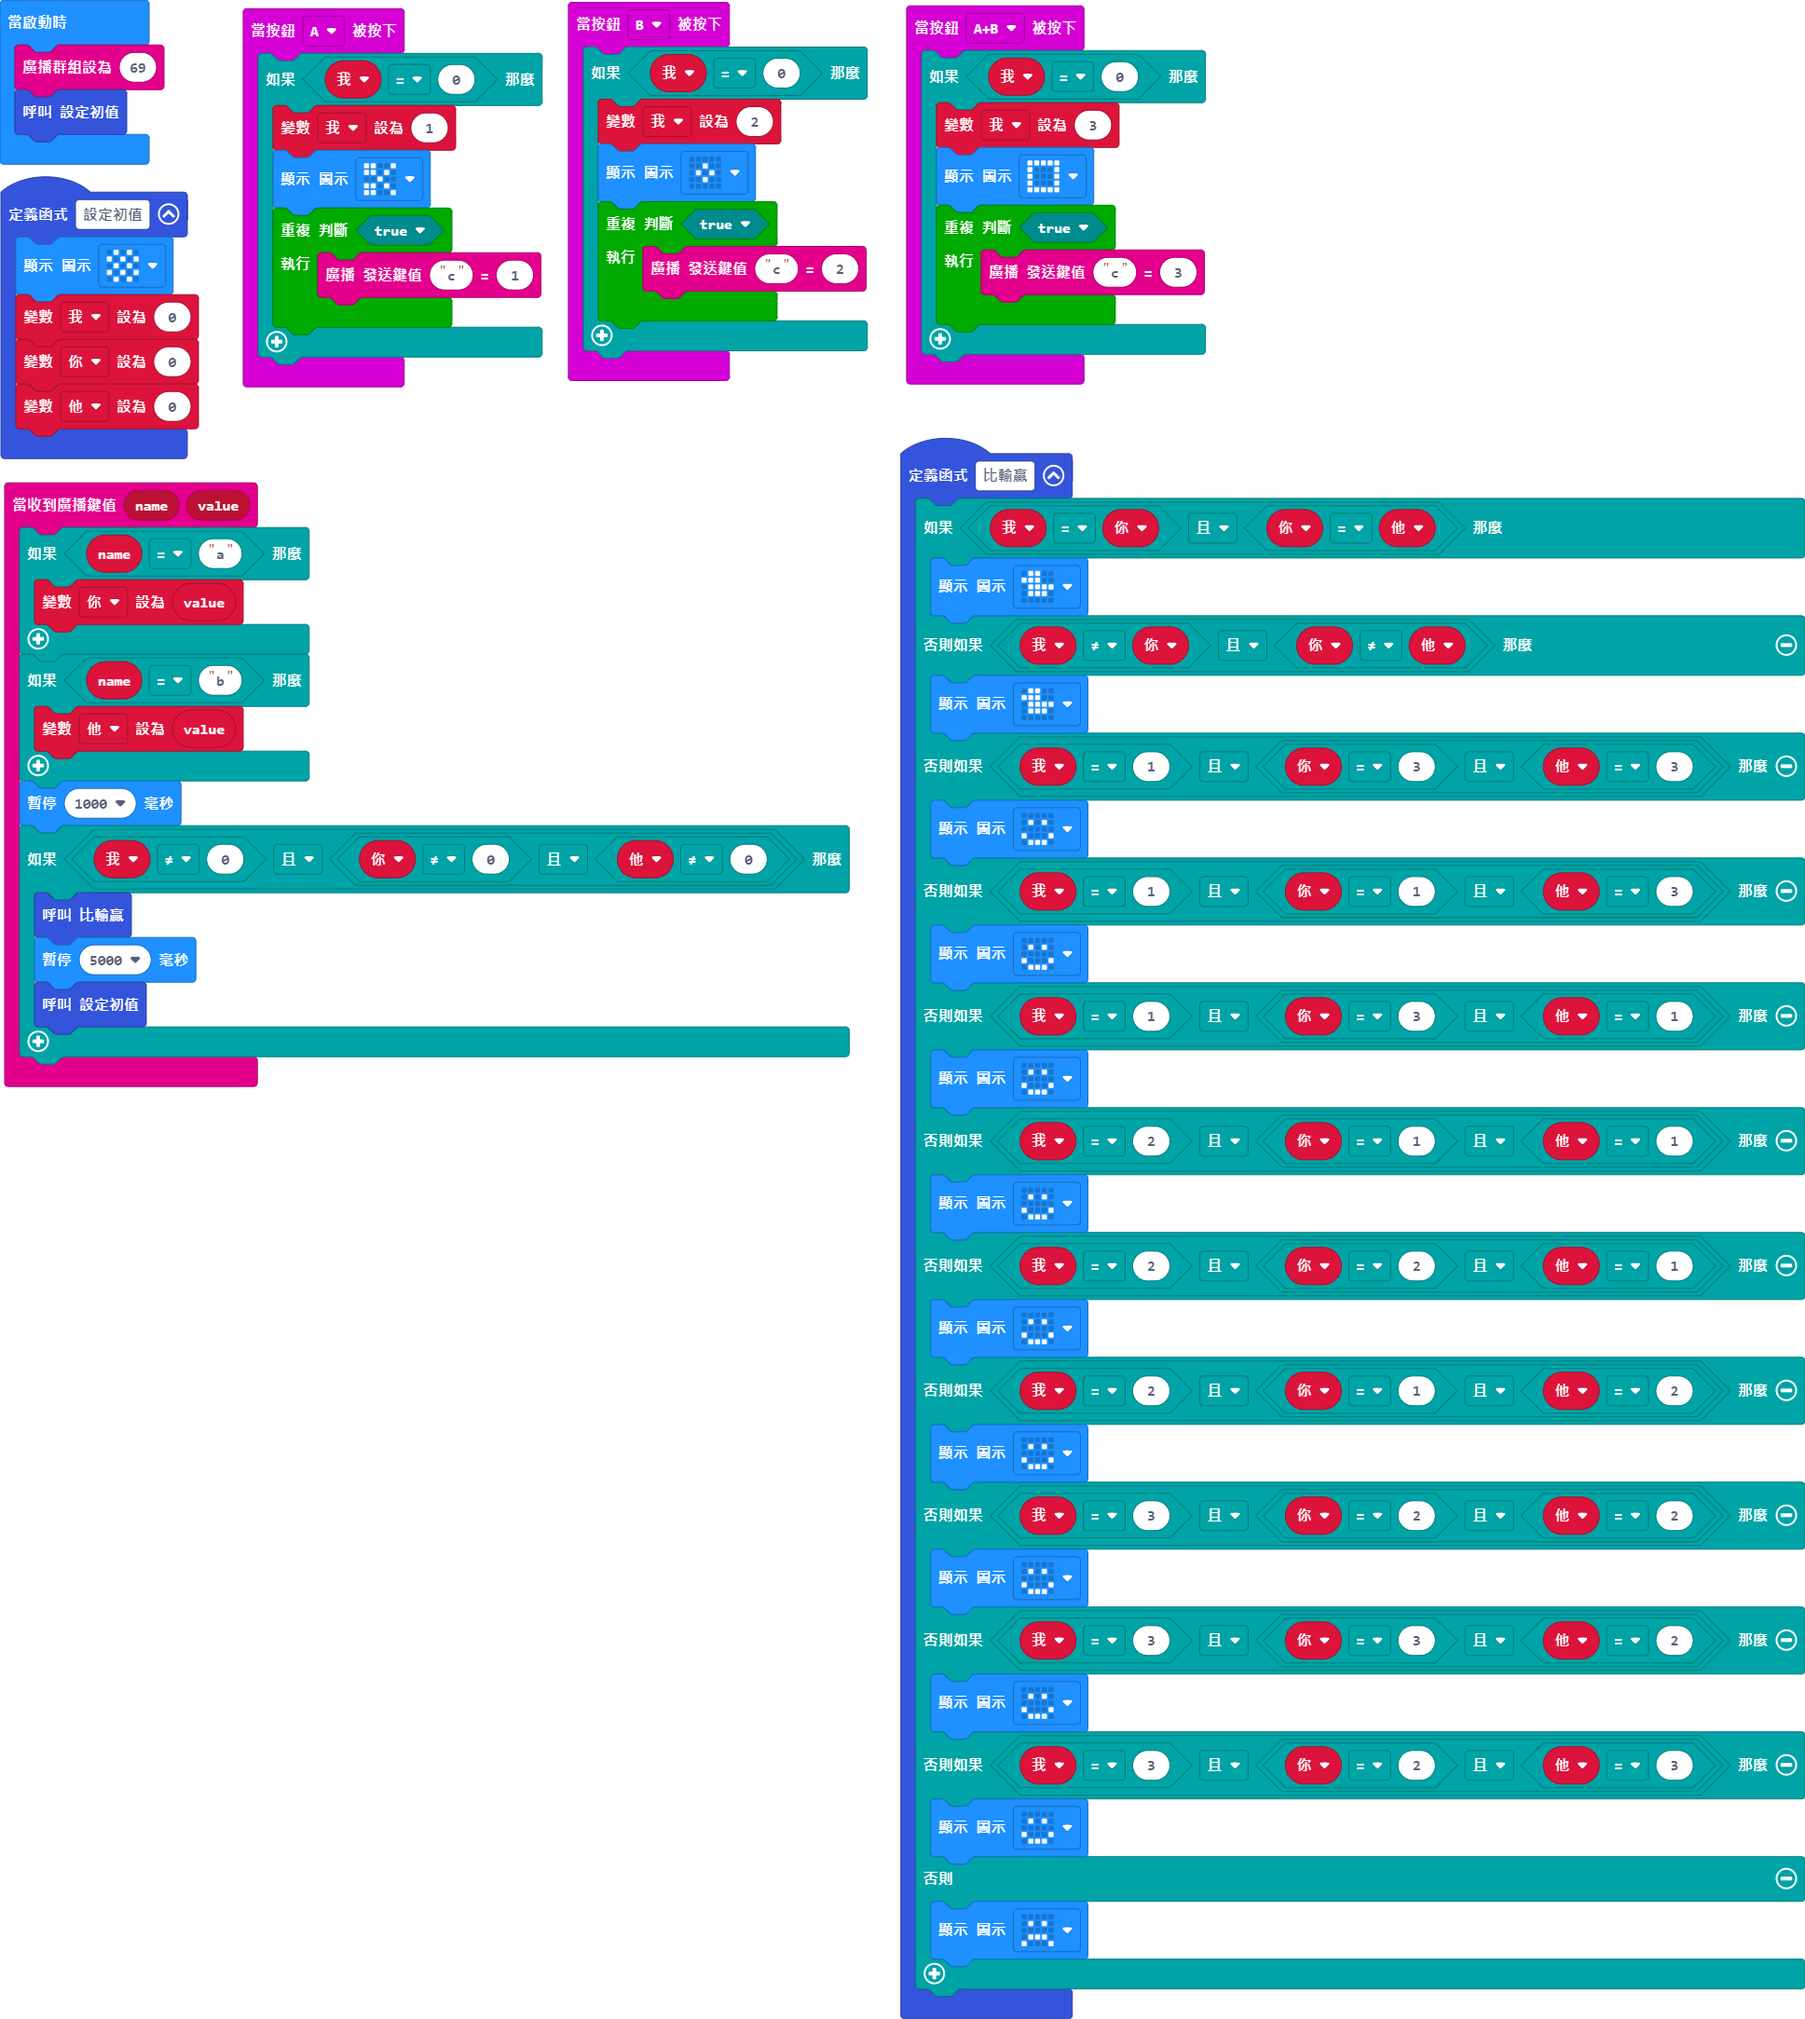
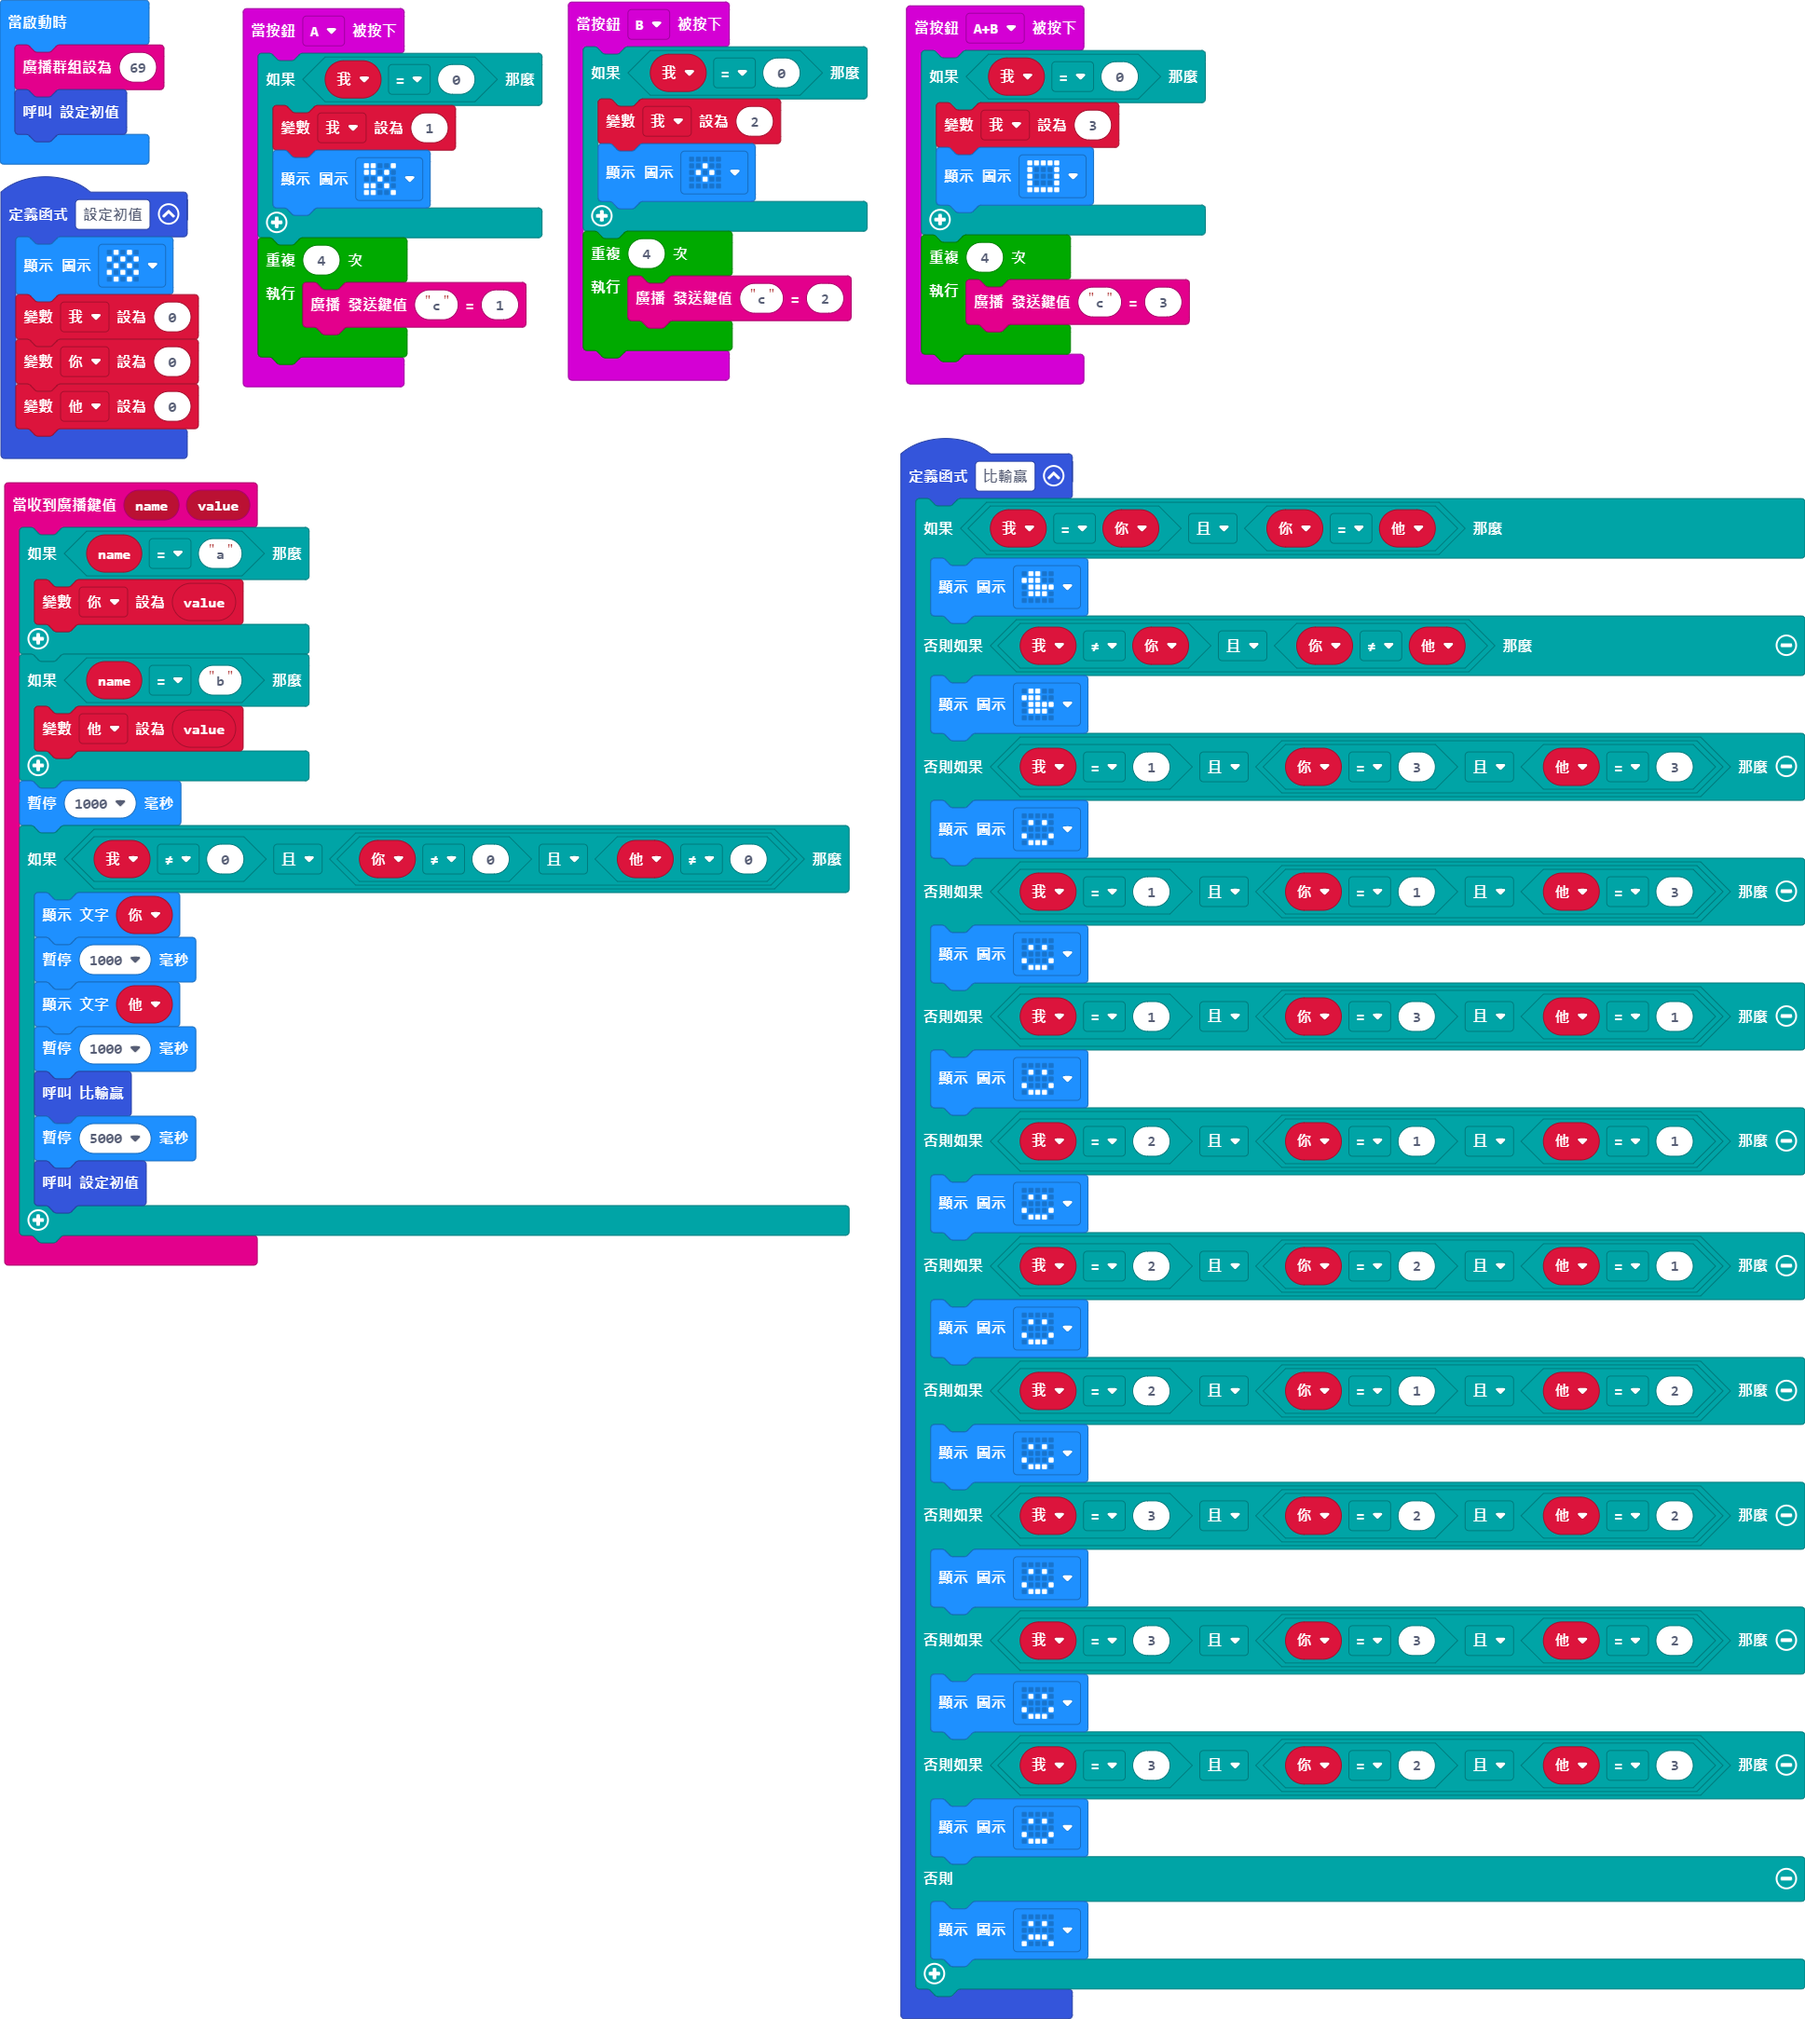
更新 main.blocks, main.ts

diff --git a/main.ts b/main.ts
@@ -2,9 +2,9 @@ input.onButtonPressed(Button.A, function () {
     if (我 == 0) {
         我 = 1
         basic.showIcon(IconNames.Scissors)
-        while (true) {
-            radio.sendValue("c", 1)
-        }
+    }
+    for (let index = 0; index < 4; index++) {
+        radio.sendValue("c", 1)
     }
 })
 function 設定初值 () {
@@ -44,18 +44,18 @@ input.onButtonPressed(Button.AB, function () {
     if (我 == 0) {
         我 = 3
         basic.showIcon(IconNames.Square)
-        while (true) {
-            radio.sendValue("c", 3)
-        }
+    }
+    for (let index = 0; index < 4; index++) {
+        radio.sendValue("c", 3)
     }
 })
 input.onButtonPressed(Button.B, function () {
     if (我 == 0) {
         我 = 2
         basic.showIcon(IconNames.SmallDiamond)
-        while (true) {
-            radio.sendValue("c", 2)
-        }
+    }
+    for (let index = 0; index < 4; index++) {
+        radio.sendValue("c", 2)
     }
 })
 radio.onReceivedValue(function (name, value) {
@@ -67,6 +67,10 @@ radio.onReceivedValue(function (name, value) {
     }
     basic.pause(1000)
     if (我 != 0 && (你 != 0 && 他 != 0)) {
+        basic.showString("" + (你))
+        basic.pause(1000)
+        basic.showString("" + (他))
+        basic.pause(1000)
         比輸贏()
         basic.pause(5000)
         設定初值()
